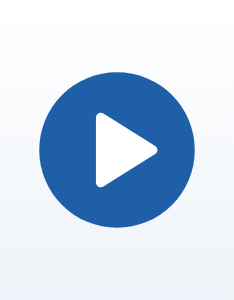
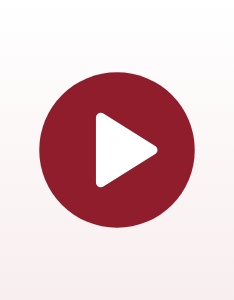
Crimson theme

Changed region(s): [[0.1496, 0.24, 0.8376, 0.78]]

diff --git a/public/index.html b/public/index.html
@@ -43,7 +43,7 @@ gtag('js', new Date()); gtag('config', 'G-FD12LWN557');
     --line: #dfe4e8;
     --bg: #fff;
     --panel: #f6f8fa;
-    --accent: #1f5fa8;
+    --accent: #8f1d2c;
     --gt: #196b24;
     --gt-bg: #d9f2d0;
     --query: #c04f15;
@@ -87,18 +87,18 @@ gtag('js', new Date()); gtag('config', 'G-FD12LWN557');
   p { margin: 0 0 14px; }
   .caption { font-size: 13.5px; color: var(--dim); line-height: 1.5; margin-top: 10px; }
   .takeaway { display: flex; gap: 10px; align-items: flex-start; margin: 16px 0 0; padding: 12px 16px; border-left: 4px solid var(--accent);
-              background: #f1f6fc; border-radius: 0 8px 8px 0; color: var(--ink); font-size: 15.5px; }
+              background: #fbf1f2; border-radius: 0 8px 8px 0; color: var(--ink); font-size: 15.5px; }
   .figure { margin: 18px 0 0; }
   hr.sep { border: 0; border-top: 1px solid var(--line); margin: 0; }
 
   /* Controls ---------------------------------------------------------------- */
   .controls { display: flex; flex-wrap: wrap; align-items: center; gap: 10px 22px; margin: 0 0 12px; }
   .controls label { font-size: 13px; color: var(--dim); margin-right: 8px; }
-  .seg { display: inline-flex; border: 1px solid #c3cfdd; border-radius: 3px; overflow: hidden; background: #fff; vertical-align: middle; }
+  .seg { display: inline-flex; border: 1px solid #d6cccd; border-radius: 3px; overflow: hidden; background: #fff; vertical-align: middle; }
   .seg button { font: inherit; font-size: 13.5px; padding: 5px 13px; border: 0; background: #fff; color: var(--ink);
                 cursor: pointer; transition: background-color .2s, color .2s; white-space: nowrap; }
-  .seg button + button { border-left: 1px solid #c3cfdd; }
-  .seg button:hover:not(:disabled):not(.on) { background: #eef3f9; }
+  .seg button + button { border-left: 1px solid #d6cccd; }
+  .seg button:hover:not(:disabled):not(.on) { background: #f8eeef; }
   /* Bold by stroke, not weight, so a button keeps its width when chosen. */
   .seg button.on { background: var(--accent); color: #fff; -webkit-text-stroke: .4px currentColor; }
   .seg button:disabled { color: #b5bec6; cursor: not-allowed; }
@@ -148,14 +148,14 @@ gtag('js', new Date()); gtag('config', 'G-FD12LWN557');
   .catt { scroll-margin-top: 16px; margin-top: 18px; border: 1px solid var(--line); background: #fff; padding: 16px 20px 14px; }
   /* The setup and the explorer flank the four dataset properties, which sit together in a tinted band. */
   .axes { display: grid; grid-template-columns: 172px minmax(0, 1fr) 172px; gap: 6px 10px; margin-bottom: 12px; }
-  .axes .knobs, .axes .side { background: #edf2f8; padding: 7px 12px 9px; }
+  .axes .knobs, .axes .side { background: #f6ecec; padding: 7px 12px 9px; }
   .axes .side { background: #f2f2f2; }
   .axes .side .kl { color: var(--dim); }
   .axes .side button { border-left-color: #d9d9d9; }
   .axes .kl { margin: 0 0 7px; font-size: 11px; font-weight: 700; letter-spacing: .07em; text-transform: uppercase; color: var(--accent); }
   .axes .kl span { font-weight: 400; letter-spacing: .02em; text-transform: none; font-size: 12px; color: var(--dim); }
   .axes .kg { display: grid; grid-template-columns: repeat(4, minmax(0, 1fr)); gap: 6px 10px; }
-  .axes .kg button { border-left-color: #d3dce6; }
+  .axes .kg button { border-left-color: #e0d3d4; }
   .axes .kg .t i { color: var(--c); font-size: 18px; opacity: .55; transition: opacity .2s; }
   .axes .kg button.on .t i, .axes .kg button:hover .t i { opacity: 1; }
   .axes button { font: inherit; text-align: left; background: none; border: 0; border-left: 4px solid #e7e6e6; padding: 1px 4px 1px 10px;
@@ -171,15 +171,15 @@ gtag('js', new Date()); gtag('config', 'G-FD12LWN557');
   .narr p { margin: 0; font-size: 14.5px; line-height: 1.5; }
   .narr .ctl { display: flex; flex-direction: column; align-items: flex-end; gap: 8px; }
   .narr .nav { display: flex; gap: 8px; }
-  .navbtn { font: inherit; font-size: 13.5px; font-weight: 600; padding: 6px 14px; border-radius: 3px; border: 1px solid #c3cfdd; background: #fff;
+  .navbtn { font: inherit; font-size: 13.5px; font-weight: 600; padding: 6px 14px; border-radius: 3px; border: 1px solid #d6cccd; background: #fff;
             color: var(--ink); cursor: pointer; }
   .navbtn.primary { background: var(--accent); border-color: var(--accent); color: #fff; }
   .navbtn:disabled { opacity: .35; cursor: default; }
   /* Until the reader has been through every step once, the way on pulses, after the step's own animation. */
-  @keyframes nudge { 0% { box-shadow: 0 0 0 0 rgba(31,95,168,.55); transform: scale(1); }
+  @keyframes nudge { 0% { box-shadow: 0 0 0 0 rgba(143,29,44,.55); transform: scale(1); }
                      40% { transform: scale(1.06); }
-                     70% { box-shadow: 0 0 0 11px rgba(31,95,168,0); transform: scale(1); }
-                     100% { box-shadow: 0 0 0 0 rgba(31,95,168,0); } }
+                     70% { box-shadow: 0 0 0 11px rgba(143,29,44,0); transform: scale(1); }
+                     100% { box-shadow: 0 0 0 0 rgba(143,29,44,0); } }
   .navbtn.primary.nudge { animation: nudge 1.5s ease-out infinite; animation-delay: var(--nd, 0s); }
   .navbtn.primary.nudge:hover { animation: none; }
 
@@ -215,9 +215,9 @@ gtag('js', new Date()); gtag('config', 'G-FD12LWN557');
                 border-radius: 999px; padding: 0 7px; line-height: 17px; }
   .dcard.decoy .cnt { background: #ed7d31; }
   /* The redundancy step's deck: every one of the N documents, scrollable, growing and shrinking with N. */
-  .deck { overflow: hidden auto; padding: 0 6px 0 0; scrollbar-width: thin; scrollbar-color: #b9c4d0 transparent; }
+  .deck { overflow: hidden auto; padding: 0 6px 0 0; scrollbar-width: thin; scrollbar-color: #cdbfc0 transparent; }
   .deck::-webkit-scrollbar { width: 6px; }
-  .deck::-webkit-scrollbar-thumb { background: #b9c4d0; border-radius: 3px; }
+  .deck::-webkit-scrollbar-thumb { background: #cdbfc0; border-radius: 3px; }
   .deck.more { -webkit-mask-image: linear-gradient(#000 calc(100% - 30px), transparent); mask-image: linear-gradient(#000 calc(100% - 30px), transparent); }
   .deck.docs { max-height: 214px; }
   .deck .dcard .c { padding-right: 40px; }
@@ -249,9 +249,9 @@ gtag('js', new Date()); gtag('config', 'G-FD12LWN557');
   .vdots { text-align: center; color: var(--dim); font-size: 18px; line-height: 1; margin: -2px 0 8px; }
   .llmrow { margin-top: auto; display: flex; align-items: center; gap: 12px; padding-top: 8px; }
   svg.net { width: 58px; height: 58px; flex: none; overflow: visible; }
-  svg.net line { stroke: #1f5fa8; stroke-width: 2; }
-  svg.net circle { fill: #fff; stroke: #1f5fa8; stroke-width: 2; transition: fill .3s; }
-  @keyframes think { 0%, 100% { fill: #fff; } 50% { fill: #9ec1e8; } }
+  svg.net line { stroke: #8f1d2c; stroke-width: 2; }
+  svg.net circle { fill: #fff; stroke: #8f1d2c; stroke-width: 2; transition: fill .3s; }
+  @keyframes think { 0%, 100% { fill: #fff; } 50% { fill: #e3a3ad; } }
   .llmrow.training svg.net circle { animation: think .6s ease-in-out infinite; }
   .llmrow.training svg.net circle:nth-of-type(2n) { animation-delay: .3s; }
   .llmrow .nm { font-size: 15px; font-weight: 700; color: var(--ink); }
@@ -260,7 +260,7 @@ gtag('js', new Date()); gtag('config', 'G-FD12LWN557');
              white-space: nowrap; overflow: hidden; text-overflow: ellipsis; }
   .setting b { color: var(--ink); font-variant-numeric: tabular-nums; }
   .setting .new { color: var(--accent); font-weight: 700; }
-  @keyframes flash { 0% { background: rgba(31,95,168,.16); } 100% { background: rgba(31,95,168,0); } }
+  @keyframes flash { 0% { background: rgba(143,29,44,.16); } 100% { background: rgba(143,29,44,0); } }
   .setting.flash { animation: flash 1.1s ease-out; }
   b.kf { color: var(--query); }
   b.kv { color: var(--answer); }
@@ -314,13 +314,13 @@ gtag('js', new Date()); gtag('config', 'G-FD12LWN557');
   .dxside { padding: 10px; display: flex; flex-direction: column; gap: 6px; }
   .dxside .dl { font-size: 12px; color: var(--dim); margin: 0 0 2px; }
   .dxside .seg button { padding: 3px 9px; font-size: 12.5px; }
-  .dxside input { font: inherit; font-size: 13px; padding: 4px 9px; border: 1px solid #c3cfdd; border-radius: 0; width: 100%; margin-top: 4px; }
+  .dxside input { font: inherit; font-size: 13px; padding: 4px 9px; border: 1px solid #d6cccd; border-radius: 0; width: 100%; margin-top: 4px; }
   .dxside ul { list-style: none; margin: 0; padding: 0; overflow-y: auto; flex: 1; min-height: 0; background: #fff; }
   .dxside li { font-size: 13px; padding: 3px 8px; cursor: pointer; color: var(--ink); white-space: nowrap; overflow: hidden; text-overflow: ellipsis; }
-  .dxside li:hover { background: #eef3f9; }
+  .dxside li:hover { background: #f8eeef; }
   .dxside li.on { background: var(--accent); color: #fff; }
   .dxside li .i { display: inline-block; width: 22px; color: var(--faint); font-variant-numeric: tabular-nums; font-size: 11.5px; }
-  .dxside li.on .i { color: #cfe0f3; }
+  .dxside li.on .i { color: #f0c9cf; }
   .dxmain { padding: 12px 16px; overflow-y: auto; }
   .dxmain h5 { margin: 12px 0 6px; font-size: 12px; text-transform: uppercase; letter-spacing: .07em; color: var(--dim); }
   .dxmain .tcard .body { font-family: var(--sans); font-size: 14.5px; }
@@ -403,7 +403,7 @@ gtag('js', new Date()); gtag('config', 'G-FD12LWN557');
                      font-size: 12.5px; font-weight: 700; display: grid; place-items: center; }
   .steps button .t { font-size: 13.5px; font-weight: 600; color: var(--ink); line-height: 1.3; }
   .steps button .d { font-size: 12.5px; color: var(--dim); line-height: 1.35; margin-top: 2px; }
-  .steps button.on { border-color: var(--accent); box-shadow: 0 0 0 2px rgba(31,95,168,.18); }
+  .steps button.on { border-color: var(--accent); box-shadow: 0 0 0 2px rgba(143,29,44,.18); }
   .steps button.on .n { background: var(--accent); color: #fff; }
   .hplot { background: #fff; border: 1px solid var(--line); padding: 12px 14px 8px; min-width: 0; }
   .readout { display: flex; align-items: baseline; gap: 18px; flex-wrap: wrap; margin-bottom: 2px; }
@@ -417,7 +417,7 @@ gtag('js', new Date()); gtag('config', 'G-FD12LWN557');
   .cfgrow { display: flex; align-items: center; gap: 8px; }
   .cfgrow .lab { font-size: 11.5px; font-weight: 700; letter-spacing: .05em; text-transform: uppercase; color: var(--dim); }
   .cfg .seg button, .hctl .seg button { font-size: 12.5px; padding: 4px 10px; }
-  .cfg .badge { margin-left: auto; font-size: 12px; font-weight: 600; color: var(--accent); background: #e6eef8; padding: 3px 10px; }
+  .cfg .badge { margin-left: auto; font-size: 12px; font-weight: 600; color: var(--accent); background: #f5e4e6; padding: 3px 10px; }
   .cfg .copy { margin-left: auto; }
   .hctl { display: flex; gap: 14px; flex-wrap: wrap; margin-top: 10px; align-items: center; font-size: 13px; color: var(--dim); }
 
@@ -464,7 +464,7 @@ gtag('js', new Date()); gtag('config', 'G-FD12LWN557');
   /* Summary and citation ---------------------------------------------------- */
   pre.bib { position: relative; font: 13px/1.5 var(--mono); overflow-x: auto; color: var(--ink); margin: 0; }
   .copy { position: absolute; top: 10px; right: 10px; font: inherit; font-family: var(--sans); font-size: 12px; padding: 3px 10px;
-          border-radius: 3px; border: 1px solid #c3cfdd; background: #fff; cursor: pointer; }
+          border-radius: 3px; border: 1px solid #d6cccd; background: #fff; cursor: pointer; }
 
   @keyframes rise { from { opacity: 0; transform: translateY(8px); } to { opacity: 1; transform: none; } }
   .rise { animation: rise .35s ease-out both; }
@@ -478,7 +478,7 @@ gtag('js', new Date()); gtag('config', 'G-FD12LWN557');
     .steps { display: grid; grid-template-columns: 1fr 1fr; }
     .seg { flex-wrap: wrap; max-width: 100%; }
     .typewrap table.types { min-width: 600px; }
-    .seg button { border-bottom: 1px solid #c3cfdd; }
+    .seg button { border-bottom: 1px solid #d6cccd; }
   }
   @media (max-width: 760px) {
     section { padding-top: 56px; }
@@ -919,7 +919,7 @@ function benchmark(B) {
     const gy = a.cy > g.t + 18 && a.cy < g.b - 18 ? a.cy : g.cy;
     wires.append(el("defs", {},
       el("marker", { id: "ah-ft", viewBox: "0 0 10 10", refX: 8, refY: 5, markerWidth: 5, markerHeight: 5, orient: "auto" },
-         el("path", { d: "M0,0L10,5L0,10z", fill: training ? "#1f5fa8" : "#bfbfbf" })),
+         el("path", { d: "M0,0L10,5L0,10z", fill: training ? "#8f1d2c" : "#bfbfbf" })),
       el("mask", { id: "gt-reveal", maskUnits: "userSpaceOnUse" },
          el("path", { class: `reveal${draw ? " draw" : ""}`, style: td, pathLength: 1, d: `M${a.l - 2},${a.cy}H${mx}V${gy}H${g.r + 14}` }))));
     if (trace !== "hide") {

diff --git a/src/index.html b/src/index.html
@@ -43,7 +43,7 @@ gtag('js', new Date()); gtag('config', 'G-FD12LWN557');
     --line: #dfe4e8;
     --bg: #fff;
     --panel: #f6f8fa;
-    --accent: #1f5fa8;
+    --accent: #8f1d2c;
     --gt: #196b24;
     --gt-bg: #d9f2d0;
     --query: #c04f15;
@@ -87,18 +87,18 @@ gtag('js', new Date()); gtag('config', 'G-FD12LWN557');
   p { margin: 0 0 14px; }
   .caption { font-size: 13.5px; color: var(--dim); line-height: 1.5; margin-top: 10px; }
   .takeaway { display: flex; gap: 10px; align-items: flex-start; margin: 16px 0 0; padding: 12px 16px; border-left: 4px solid var(--accent);
-              background: #f1f6fc; border-radius: 0 8px 8px 0; color: var(--ink); font-size: 15.5px; }
+              background: #fbf1f2; border-radius: 0 8px 8px 0; color: var(--ink); font-size: 15.5px; }
   .figure { margin: 18px 0 0; }
   hr.sep { border: 0; border-top: 1px solid var(--line); margin: 0; }
 
   /* Controls ---------------------------------------------------------------- */
   .controls { display: flex; flex-wrap: wrap; align-items: center; gap: 10px 22px; margin: 0 0 12px; }
   .controls label { font-size: 13px; color: var(--dim); margin-right: 8px; }
-  .seg { display: inline-flex; border: 1px solid #c3cfdd; border-radius: 3px; overflow: hidden; background: #fff; vertical-align: middle; }
+  .seg { display: inline-flex; border: 1px solid #d6cccd; border-radius: 3px; overflow: hidden; background: #fff; vertical-align: middle; }
   .seg button { font: inherit; font-size: 13.5px; padding: 5px 13px; border: 0; background: #fff; color: var(--ink);
                 cursor: pointer; transition: background-color .2s, color .2s; white-space: nowrap; }
-  .seg button + button { border-left: 1px solid #c3cfdd; }
-  .seg button:hover:not(:disabled):not(.on) { background: #eef3f9; }
+  .seg button + button { border-left: 1px solid #d6cccd; }
+  .seg button:hover:not(:disabled):not(.on) { background: #f8eeef; }
   /* Bold by stroke, not weight, so a button keeps its width when chosen. */
   .seg button.on { background: var(--accent); color: #fff; -webkit-text-stroke: .4px currentColor; }
   .seg button:disabled { color: #b5bec6; cursor: not-allowed; }
@@ -148,14 +148,14 @@ gtag('js', new Date()); gtag('config', 'G-FD12LWN557');
   .catt { scroll-margin-top: 16px; margin-top: 18px; border: 1px solid var(--line); background: #fff; padding: 16px 20px 14px; }
   /* The setup and the explorer flank the four dataset properties, which sit together in a tinted band. */
   .axes { display: grid; grid-template-columns: 172px minmax(0, 1fr) 172px; gap: 6px 10px; margin-bottom: 12px; }
-  .axes .knobs, .axes .side { background: #edf2f8; padding: 7px 12px 9px; }
+  .axes .knobs, .axes .side { background: #f6ecec; padding: 7px 12px 9px; }
   .axes .side { background: #f2f2f2; }
   .axes .side .kl { color: var(--dim); }
   .axes .side button { border-left-color: #d9d9d9; }
   .axes .kl { margin: 0 0 7px; font-size: 11px; font-weight: 700; letter-spacing: .07em; text-transform: uppercase; color: var(--accent); }
   .axes .kl span { font-weight: 400; letter-spacing: .02em; text-transform: none; font-size: 12px; color: var(--dim); }
   .axes .kg { display: grid; grid-template-columns: repeat(4, minmax(0, 1fr)); gap: 6px 10px; }
-  .axes .kg button { border-left-color: #d3dce6; }
+  .axes .kg button { border-left-color: #e0d3d4; }
   .axes .kg .t i { color: var(--c); font-size: 18px; opacity: .55; transition: opacity .2s; }
   .axes .kg button.on .t i, .axes .kg button:hover .t i { opacity: 1; }
   .axes button { font: inherit; text-align: left; background: none; border: 0; border-left: 4px solid #e7e6e6; padding: 1px 4px 1px 10px;
@@ -171,15 +171,15 @@ gtag('js', new Date()); gtag('config', 'G-FD12LWN557');
   .narr p { margin: 0; font-size: 14.5px; line-height: 1.5; }
   .narr .ctl { display: flex; flex-direction: column; align-items: flex-end; gap: 8px; }
   .narr .nav { display: flex; gap: 8px; }
-  .navbtn { font: inherit; font-size: 13.5px; font-weight: 600; padding: 6px 14px; border-radius: 3px; border: 1px solid #c3cfdd; background: #fff;
+  .navbtn { font: inherit; font-size: 13.5px; font-weight: 600; padding: 6px 14px; border-radius: 3px; border: 1px solid #d6cccd; background: #fff;
             color: var(--ink); cursor: pointer; }
   .navbtn.primary { background: var(--accent); border-color: var(--accent); color: #fff; }
   .navbtn:disabled { opacity: .35; cursor: default; }
   /* Until the reader has been through every step once, the way on pulses, after the step's own animation. */
-  @keyframes nudge { 0% { box-shadow: 0 0 0 0 rgba(31,95,168,.55); transform: scale(1); }
+  @keyframes nudge { 0% { box-shadow: 0 0 0 0 rgba(143,29,44,.55); transform: scale(1); }
                      40% { transform: scale(1.06); }
-                     70% { box-shadow: 0 0 0 11px rgba(31,95,168,0); transform: scale(1); }
-                     100% { box-shadow: 0 0 0 0 rgba(31,95,168,0); } }
+                     70% { box-shadow: 0 0 0 11px rgba(143,29,44,0); transform: scale(1); }
+                     100% { box-shadow: 0 0 0 0 rgba(143,29,44,0); } }
   .navbtn.primary.nudge { animation: nudge 1.5s ease-out infinite; animation-delay: var(--nd, 0s); }
   .navbtn.primary.nudge:hover { animation: none; }
 
@@ -215,9 +215,9 @@ gtag('js', new Date()); gtag('config', 'G-FD12LWN557');
                 border-radius: 999px; padding: 0 7px; line-height: 17px; }
   .dcard.decoy .cnt { background: #ed7d31; }
   /* The redundancy step's deck: every one of the N documents, scrollable, growing and shrinking with N. */
-  .deck { overflow: hidden auto; padding: 0 6px 0 0; scrollbar-width: thin; scrollbar-color: #b9c4d0 transparent; }
+  .deck { overflow: hidden auto; padding: 0 6px 0 0; scrollbar-width: thin; scrollbar-color: #cdbfc0 transparent; }
   .deck::-webkit-scrollbar { width: 6px; }
-  .deck::-webkit-scrollbar-thumb { background: #b9c4d0; border-radius: 3px; }
+  .deck::-webkit-scrollbar-thumb { background: #cdbfc0; border-radius: 3px; }
   .deck.more { -webkit-mask-image: linear-gradient(#000 calc(100% - 30px), transparent); mask-image: linear-gradient(#000 calc(100% - 30px), transparent); }
   .deck.docs { max-height: 214px; }
   .deck .dcard .c { padding-right: 40px; }
@@ -249,9 +249,9 @@ gtag('js', new Date()); gtag('config', 'G-FD12LWN557');
   .vdots { text-align: center; color: var(--dim); font-size: 18px; line-height: 1; margin: -2px 0 8px; }
   .llmrow { margin-top: auto; display: flex; align-items: center; gap: 12px; padding-top: 8px; }
   svg.net { width: 58px; height: 58px; flex: none; overflow: visible; }
-  svg.net line { stroke: #1f5fa8; stroke-width: 2; }
-  svg.net circle { fill: #fff; stroke: #1f5fa8; stroke-width: 2; transition: fill .3s; }
-  @keyframes think { 0%, 100% { fill: #fff; } 50% { fill: #9ec1e8; } }
+  svg.net line { stroke: #8f1d2c; stroke-width: 2; }
+  svg.net circle { fill: #fff; stroke: #8f1d2c; stroke-width: 2; transition: fill .3s; }
+  @keyframes think { 0%, 100% { fill: #fff; } 50% { fill: #e3a3ad; } }
   .llmrow.training svg.net circle { animation: think .6s ease-in-out infinite; }
   .llmrow.training svg.net circle:nth-of-type(2n) { animation-delay: .3s; }
   .llmrow .nm { font-size: 15px; font-weight: 700; color: var(--ink); }
@@ -260,7 +260,7 @@ gtag('js', new Date()); gtag('config', 'G-FD12LWN557');
              white-space: nowrap; overflow: hidden; text-overflow: ellipsis; }
   .setting b { color: var(--ink); font-variant-numeric: tabular-nums; }
   .setting .new { color: var(--accent); font-weight: 700; }
-  @keyframes flash { 0% { background: rgba(31,95,168,.16); } 100% { background: rgba(31,95,168,0); } }
+  @keyframes flash { 0% { background: rgba(143,29,44,.16); } 100% { background: rgba(143,29,44,0); } }
   .setting.flash { animation: flash 1.1s ease-out; }
   b.kf { color: var(--query); }
   b.kv { color: var(--answer); }
@@ -314,13 +314,13 @@ gtag('js', new Date()); gtag('config', 'G-FD12LWN557');
   .dxside { padding: 10px; display: flex; flex-direction: column; gap: 6px; }
   .dxside .dl { font-size: 12px; color: var(--dim); margin: 0 0 2px; }
   .dxside .seg button { padding: 3px 9px; font-size: 12.5px; }
-  .dxside input { font: inherit; font-size: 13px; padding: 4px 9px; border: 1px solid #c3cfdd; border-radius: 0; width: 100%; margin-top: 4px; }
+  .dxside input { font: inherit; font-size: 13px; padding: 4px 9px; border: 1px solid #d6cccd; border-radius: 0; width: 100%; margin-top: 4px; }
   .dxside ul { list-style: none; margin: 0; padding: 0; overflow-y: auto; flex: 1; min-height: 0; background: #fff; }
   .dxside li { font-size: 13px; padding: 3px 8px; cursor: pointer; color: var(--ink); white-space: nowrap; overflow: hidden; text-overflow: ellipsis; }
-  .dxside li:hover { background: #eef3f9; }
+  .dxside li:hover { background: #f8eeef; }
   .dxside li.on { background: var(--accent); color: #fff; }
   .dxside li .i { display: inline-block; width: 22px; color: var(--faint); font-variant-numeric: tabular-nums; font-size: 11.5px; }
-  .dxside li.on .i { color: #cfe0f3; }
+  .dxside li.on .i { color: #f0c9cf; }
   .dxmain { padding: 12px 16px; overflow-y: auto; }
   .dxmain h5 { margin: 12px 0 6px; font-size: 12px; text-transform: uppercase; letter-spacing: .07em; color: var(--dim); }
   .dxmain .tcard .body { font-family: var(--sans); font-size: 14.5px; }
@@ -403,7 +403,7 @@ gtag('js', new Date()); gtag('config', 'G-FD12LWN557');
                      font-size: 12.5px; font-weight: 700; display: grid; place-items: center; }
   .steps button .t { font-size: 13.5px; font-weight: 600; color: var(--ink); line-height: 1.3; }
   .steps button .d { font-size: 12.5px; color: var(--dim); line-height: 1.35; margin-top: 2px; }
-  .steps button.on { border-color: var(--accent); box-shadow: 0 0 0 2px rgba(31,95,168,.18); }
+  .steps button.on { border-color: var(--accent); box-shadow: 0 0 0 2px rgba(143,29,44,.18); }
   .steps button.on .n { background: var(--accent); color: #fff; }
   .hplot { background: #fff; border: 1px solid var(--line); padding: 12px 14px 8px; min-width: 0; }
   .readout { display: flex; align-items: baseline; gap: 18px; flex-wrap: wrap; margin-bottom: 2px; }
@@ -417,7 +417,7 @@ gtag('js', new Date()); gtag('config', 'G-FD12LWN557');
   .cfgrow { display: flex; align-items: center; gap: 8px; }
   .cfgrow .lab { font-size: 11.5px; font-weight: 700; letter-spacing: .05em; text-transform: uppercase; color: var(--dim); }
   .cfg .seg button, .hctl .seg button { font-size: 12.5px; padding: 4px 10px; }
-  .cfg .badge { margin-left: auto; font-size: 12px; font-weight: 600; color: var(--accent); background: #e6eef8; padding: 3px 10px; }
+  .cfg .badge { margin-left: auto; font-size: 12px; font-weight: 600; color: var(--accent); background: #f5e4e6; padding: 3px 10px; }
   .cfg .copy { margin-left: auto; }
   .hctl { display: flex; gap: 14px; flex-wrap: wrap; margin-top: 10px; align-items: center; font-size: 13px; color: var(--dim); }
 
@@ -464,7 +464,7 @@ gtag('js', new Date()); gtag('config', 'G-FD12LWN557');
   /* Summary and citation ---------------------------------------------------- */
   pre.bib { position: relative; font: 13px/1.5 var(--mono); overflow-x: auto; color: var(--ink); margin: 0; }
   .copy { position: absolute; top: 10px; right: 10px; font: inherit; font-family: var(--sans); font-size: 12px; padding: 3px 10px;
-          border-radius: 3px; border: 1px solid #c3cfdd; background: #fff; cursor: pointer; }
+          border-radius: 3px; border: 1px solid #d6cccd; background: #fff; cursor: pointer; }
 
   @keyframes rise { from { opacity: 0; transform: translateY(8px); } to { opacity: 1; transform: none; } }
   .rise { animation: rise .35s ease-out both; }
@@ -478,7 +478,7 @@ gtag('js', new Date()); gtag('config', 'G-FD12LWN557');
     .steps { display: grid; grid-template-columns: 1fr 1fr; }
     .seg { flex-wrap: wrap; max-width: 100%; }
     .typewrap table.types { min-width: 600px; }
-    .seg button { border-bottom: 1px solid #c3cfdd; }
+    .seg button { border-bottom: 1px solid #d6cccd; }
   }
   @media (max-width: 760px) {
     section { padding-top: 56px; }
@@ -919,7 +919,7 @@ function benchmark(B) {
     const gy = a.cy > g.t + 18 && a.cy < g.b - 18 ? a.cy : g.cy;
     wires.append(el("defs", {},
       el("marker", { id: "ah-ft", viewBox: "0 0 10 10", refX: 8, refY: 5, markerWidth: 5, markerHeight: 5, orient: "auto" },
-         el("path", { d: "M0,0L10,5L0,10z", fill: training ? "#1f5fa8" : "#bfbfbf" })),
+         el("path", { d: "M0,0L10,5L0,10z", fill: training ? "#8f1d2c" : "#bfbfbf" })),
       el("mask", { id: "gt-reveal", maskUnits: "userSpaceOnUse" },
          el("path", { class: `reveal${draw ? " draw" : ""}`, style: td, pathLength: 1, d: `M${a.l - 2},${a.cy}H${mx}V${gy}H${g.r + 14}` }))));
     if (trace !== "hide") {

diff --git a/public/style.css b/public/style.css
@@ -13,13 +13,13 @@ body, td, th {
 }
 .text-center { text-align: center; }
 
-/* CATT blue, the page's accent colour. */
+/* CATT crimson, the page's accent colour. */
 .nd-pageheader {
   padding: 2rem 15px;
   margin-bottom: 1.5rem;
   color: #ffffff;
   text-align: center;
-  background-color: #1f5fa8;
+  background-color: #8f1d2c;
 }
 
 .nd-pageheader a, .nd-pageheader a.likelink {
@@ -31,7 +31,7 @@ body, td, th {
   padding: 1rem;
   color: #ffffff;
   text-align: center;
-  background-color: #1f5fa8;
+  background-color: #8f1d2c;
 }
 
 .nd-pagefooter a {

diff --git a/src/style.css b/src/style.css
@@ -13,13 +13,13 @@ body, td, th {
 }
 .text-center { text-align: center; }
 
-/* CATT blue, the page's accent colour. */
+/* CATT crimson, the page's accent colour. */
 .nd-pageheader {
   padding: 2rem 15px;
   margin-bottom: 1.5rem;
   color: #ffffff;
   text-align: center;
-  background-color: #1f5fa8;
+  background-color: #8f1d2c;
 }
 
 .nd-pageheader a, .nd-pageheader a.likelink {
@@ -31,7 +31,7 @@ body, td, th {
   padding: 1rem;
   color: #ffffff;
   text-align: center;
-  background-color: #1f5fa8;
+  background-color: #8f1d2c;
 }
 
 .nd-pagefooter a {
